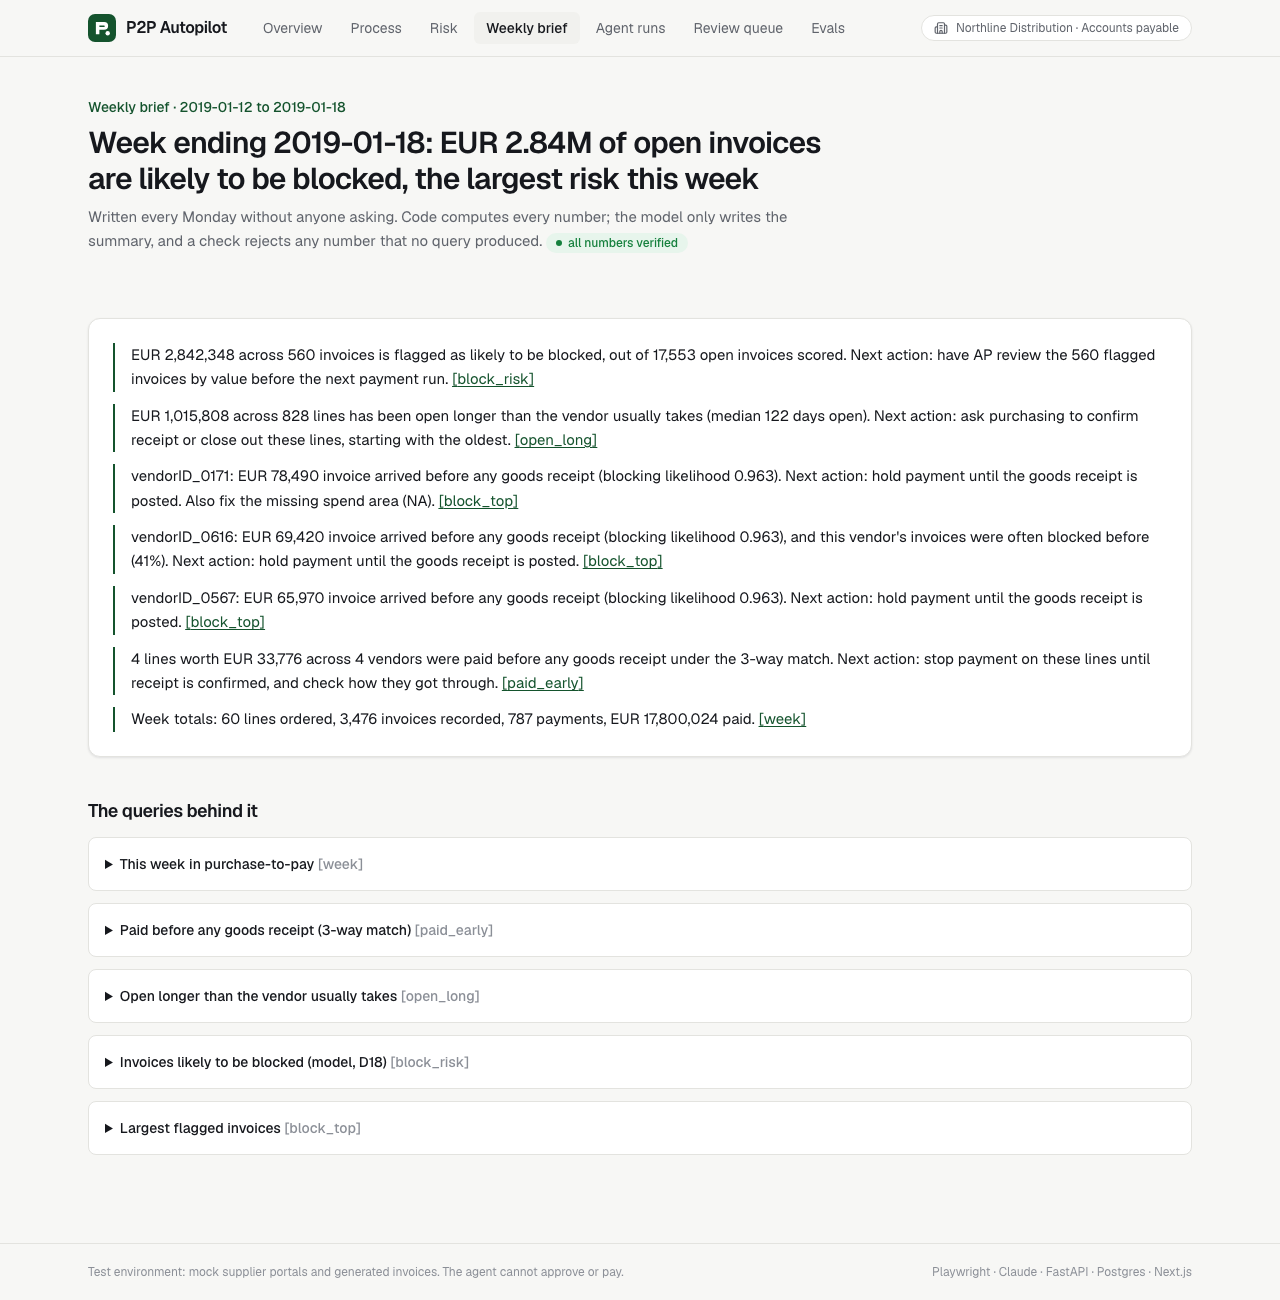
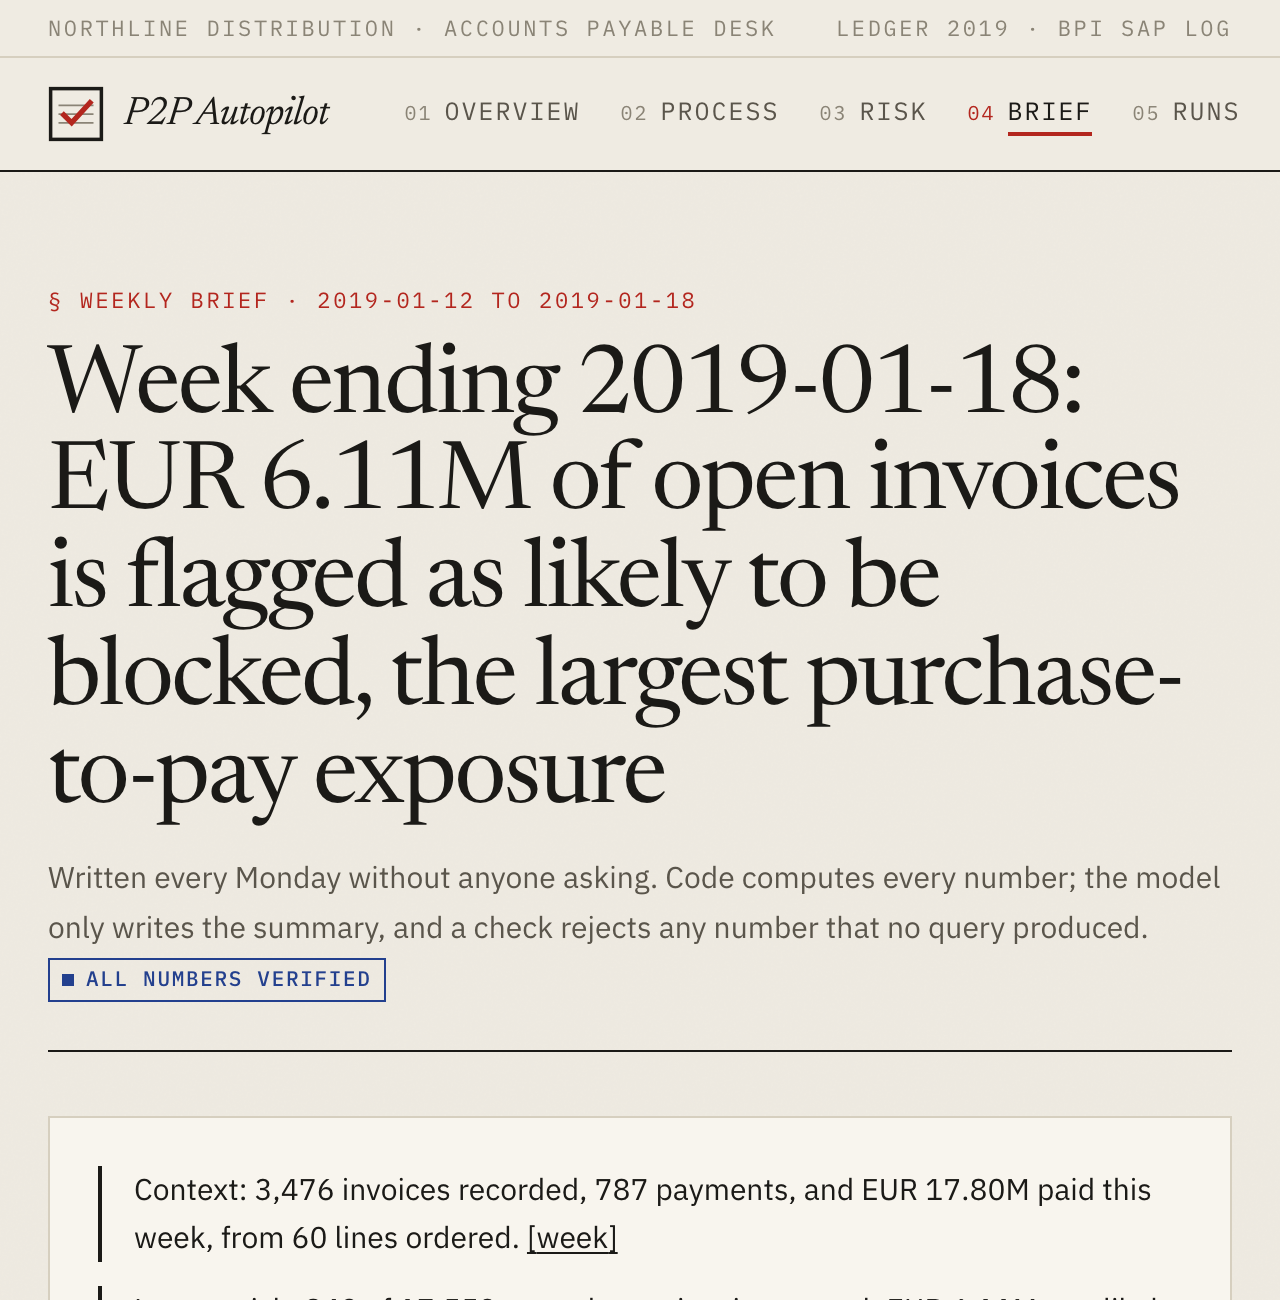
README screenshots in the new console design; serif run titles

diff --git a/web/src/app/runs/[id]/page.tsx b/web/src/app/runs/[id]/page.tsx
@@ -81,7 +81,7 @@ export default function RunPage() {
           <ChevronLeft className="size-4" /> Runs
         </Link>
         <div className="mt-3 flex flex-wrap items-center gap-3">
-          <h1 className="text-2xl font-semibold tracking-tight sm:text-3xl">{portal?.supplier ?? run.portal}</h1>
+          <h1 className="font-serif text-4xl tracking-tight sm:text-5xl">{portal?.supplier ?? run.portal}</h1>
           <Badge tone={st.tone} dot>{live ? "Running live" : st.label}</Badge>
           <Badge>{CHAOS[run.chaos]?.label ?? run.chaos}</Badge>
         </div>

diff --git a/web/src/app/globals.css b/web/src/app/globals.css
@@ -105,7 +105,7 @@ body > * {
 }
 
 /* section headings inside pages are set in the book face (unlayered, so it wins over utility weights) */
-main h2 {
+main h2:not(.font-mono) {
   font-family: var(--font-newsreader);
   font-weight: 400;
   letter-spacing: -0.01em;
